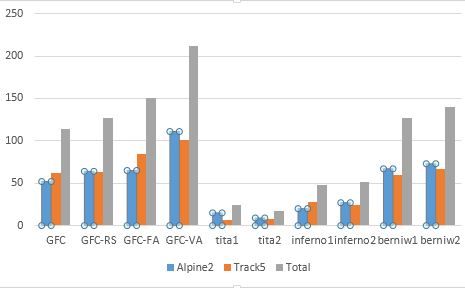
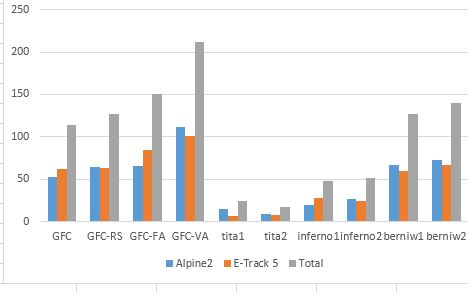
Conclusion  added
with replies to Comments

diff --git a/cg2019_paper.tex b/cg2019_paper.tex
@@ -228,7 +228,7 @@ controller that is able, for instance, to work towards a target speed
 instead of dealing directly with throttle and braking is much more
 convenient. This default controller, as a matter of fact, lets you
 choose what you actually want to change or optimize. Some people opt
-for changing just the steering \cite{CarRacing_Pelta09,
+for changing just the steering \cite{CarRacing_Pelta09},
 
 Our own work tried to take the state of the art further by introducing
 a fuzzy controller evolved via evolutionary algorithms in
@@ -607,6 +607,7 @@ In order to enhance the selection of the best, another two controllers are picke
 % Antonio - Mohammed, this is the explanation of the race-based selection policy, right? If so, I'll copy this explanation (or a part of it) to the GA section. ;)
 % Or is it the description of the final selection of the best?
 
+%%Mohammed-  The E-Track5 track is used only in the comparison (test purpose) , in the selection, I used only Alpine2
 
 The evolution process was applied in separate bunches of runs to obtain the following controllers:
 \begin{itemize}
@@ -627,6 +628,8 @@ using race-based selection only in the final generation and with fitness  $f_{AV
 % Antonio - Mohammed, are you performing also a race-based selection at the end of the evolution to choose the best of all the controllers, as it was done in GFC?
 
 % If this happens at the end, you should clarify - JJ 
+%%%  Mohammed  Yes I do
+
 These genetic fuzzy based controllers are evaluated in some practice
 races together in a kind of Formula 1 {\em mini championship}, consisting of
 10 races, each one for 20 laps, and with a total of 10 participants
@@ -682,7 +685,7 @@ $berniw2$&	15&	15&	12&	6&25		&73&	8&	25&	18&	6&	10&67&140\\
 	\end{center}
 \end{figure}
 % Antonio - Mohammed, please, generate the figure without the "dots" in blue bars. Also put the correct name of the track "E-Track 5".
-
+%Mohammed Done
 It is clear from the table and figure that the $GFC-VA$ controller
 yields the best results in the evaluation process. Indeed, The
 proposed controller won three races in Alpine 2 track and has been
@@ -778,11 +781,18 @@ Looking at these and previous results, we can conclude that the proposed control
 
 % >>>>>> TODO: Rewrite this section -> All  <<<<<<<<<<
 
+In this work, we have proposed an improved evolutionary approach to optimize a fuzzy controller for automatic driving in TORCS.This genetic approach is an attempt to find the parameters of the membership functions of a previous work controller composed of two sub controllers fuzzy, the first one is intended to calculate the desired speed of the car while the second one outputs the steer to take.\\
+The fuzzy genetic controller is subject to uncertainties in the track especially in case of presence of rivals so in order to overcome this problem and thus design a robust and resistant bot, we proposed to apply a pole position selection where the selection of individuals in the evolutionary process is carried out according to the results of a set of mini-championships organized among the individuals of the population, which looks like a car racing tournament selection.\\
+Aiming to intensify the exploration process in the search space, we used the $BLX-\alpha$ crossover operator with decreasing values of the $\alpha$ parameter throughout the generations.
+The evaluation was performed by comparing the proposed controller with bots of the TORCS platform, giving good results.
+The other evaluation of our controller was a confrontation with a real bot ($PSRI$ controller). In this case, the BLX operator and the new selection policy have had a lot of impact in helping our controller to win three quarters of the races by getting the best damage, average speed and maximum speed  values.
 
-These results let us to think that our controller could have reached a very good rank in the Simulated Car Racing Competition, which is unfortunately over since 2013. Anyway, we think that the findings of this study (and previous ones) could be applied successfully to other car racing simulators, such as those used in current eSports Competitions, such as iRace (https://www.iracing.com/).
+These results let us to think that our controller could have reached a very good rank in the Simulated Car Racing Competition, which is unfortunately over since 2013. Anyway, we think that the findings of this study (and previous ones) could be applied successfully to other car racing simulators, such as those used in current eSports Competitions, such as iRace (https://www.iracing.com/).\\
 
-
-
+This controller can be improved in several ways:
+We can extend the selection policy to all generations while overcoming the computation time drawback by parallel algorithms.\\
+We can also explore other fitness functions to evaluate individuals including other parameters affecting the performance of the car.
+Another perspective is to use multiple tracks in the selection process because although the Alpine2 track has different segments representing most of the features of the race tracks, it can not replace the other tracks especially the crossroads tracks.
 \section*{Acknowledgments}
 
 This work has been supported in part by: Ministerio espa\~{n}ol de
